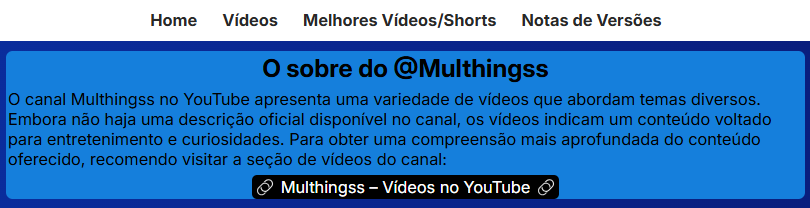
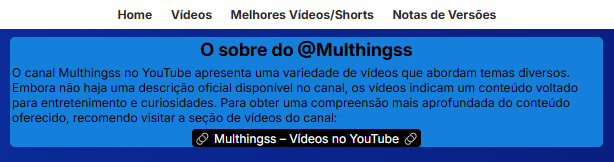
fixed bug nt-vs

diff --git a/pages/nt-vs.html b/pages/nt-vs.html
@@ -109,12 +109,29 @@
             <h2 class="center">Versão 0.1.4</h2>
             <ol>
                 <p class="center" style="margin-bottom: 6px;">Primeira versão Beta- Página de sobre sendo construída</p>
-                <img src="../imgs/nt-vs(0.1.4).png" alt="Esqueleto do site" id="img-0-1-1" class="img-0-1-4">
+                
                 <p class="center" style="margin-top: 6px;" id="version-0-1-0">
                     No dia 26 de abril eu criei a página "Sobre" do <em>menu</em> e que é a última página concluída!
                 </p>
                 <p class="center" style="margin-top: 6px;" id="version-0-1-0">
                     Houve a interligação de <strong>TODAS</strong> as páginas no <em>menu</em>.
+                </p>
+
+                <p class="center" style="margin-top: 12px; margin-bottom: 12px;">
+                    Data de lançamento: <em>26/04/2025</em>
+                </p>
+            </ol>
+        </article>
+        <article>
+            <h2 class="center">Versão 0.1.4.1</h2>
+            <ol>
+                <p class="center" style="margin-bottom: 6px;">Correção de Bugs 01</p>
+
+                <p class="center" style="margin-top: 6px;" id="version-0-1-0">
+                    No dia 27 de abril eu arrumei uns bugs no caso paro o pessoal do celular.
+                </p>
+                <p class="center" style="margin-top: 6px;" id="version-0-1-0">
+                    Houve a remoção da imagem na versão <em>0.1.4</em> e a correção do tamanho do parágrafo do rodapé.
                 </p>
 
                 <p class="center" style="margin-top: 12px;">

diff --git a/pages/css/nt-vs.css b/pages/css/nt-vs.css
@@ -119,7 +119,7 @@ footer {
 
 footer > p {
     text-align: center;
-    font-size: 0.85em;
+    font-size: 0.66em;
 }
 
 a.link-footer {
@@ -137,7 +137,6 @@ a.link-footer:hover {
     text-decoration: underline;
 }
 
-img.img-0-1-4 {
-    width: 999px;
-    height: 12.5px;
+img.img-0-1-4-1 {
+    width: 75%;
 }

diff --git a/css/media.css b/css/media.css
@@ -1,0 +1,8 @@
+@charset "UTF-8";
+
+@media screen and (min-width: 515px){
+    footer > p {
+        text-align: center;
+        font-size: 0.75em;
+    }
+}
